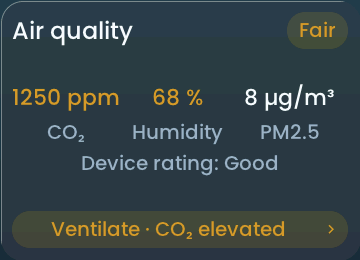
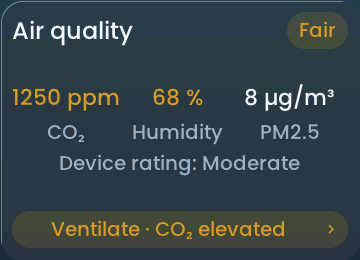
feat(test-pages): render and audit tile popups; rewrite v0.9.2-rc1 notes and Air quality guide
- test_pages.sh taps the tile of every case marked "popup", renders the
  dialog in all styles and languages under Popups, and fails when the tap
  opens nothing or the popup audit rejects it. The simulator reports
  whether the tap opened a dialog.
- The option picker keeps its title on one line, so a long lock or select
  title no longer runs into the options.
- Release notes: v0.9.2-rc1 rewritten for end users; the 800-line ceiling
  for release-notes.md is lifted.
- Air quality guide: three short paragraphs and a table that explains how
  Good, Fair and Poor are determined; the example no longer pairs Fair
  with a Good device rating.

Changed region(s): [[0.1528, 0.5846, 0.8556, 0.6769]]

diff --git a/tools/test_layouts.py b/tools/test_layouts.py
@@ -123,6 +123,9 @@ def all_suites():
     suites["zustaende"] = {"title": "Zustände", "cases": state_cases(suites)}
     suites["grenzen"] = {"title": "Grenzen", "cases": limits_cases(suites)}
     suites["maximal"] = {"title": "Maximal", "cases": maximum_cases(suites)}
+    for suite in ("zustaende", "grenzen", "maximal"):
+        for case in suites[suite]["cases"]:
+            case.pop("popup", None)  # a derived case repeats a catalogue case: its dialog is rendered once, there
     return suites
 
 
@@ -215,6 +218,7 @@ def stable_tag(suite_id, case):
 
 EXPECT = {}  # widget id -> texts its case expects to be visible (the case's "expect")
 SIM_STATES = {}  # widget id -> binding field/state overrides, applied to independent simulator-only entities
+POPUPS = set()  # widget ids whose case has "popup": a tap opens a dialog, rendered and audited as its own image
 SIM_FIELDS = {}  # widget id -> simulator-only fields (the case's "sim", e.g. to-do "items"); never in a panel layout
 PLACEHOLDER = re.compile(r"lädt\s*(…|\.\.\.)|loading|nicht verfügbar|unavailable|unbekannt|unknown", re.I)
 
@@ -266,6 +270,8 @@ def build_page(suite_id, title, number, placed, entities):
         WIDGET_TAGS[f"{page_id}_{index}"] = stable_tag(suite_id, case)
         EXPECT[f"{page_id}_{index}"] = case.get("expect", [])
         SIM_STATES[f"{page_id}_{index}"] = case.get("sim_state", {})
+        if case.get("popup"):
+            POPUPS.add(f"{page_id}_{index}")
         if "sim" in case:
             SIM_FIELDS[f"{page_id}_{index}"] = case["sim"]
     return {"id": page_id, "title": f"{title} {number}", "widgets": widgets}
@@ -362,7 +368,25 @@ def render_board(board, styles, steps, languages, out, suite=None, theme="dark_v
                         *dump], env=env, check=True, capture_output=True)
         Image.open(png).convert("RGB").save(png, optimize=True)
 
-    jobs = []
+    def popup_shot(job):
+        """One tap on the widget, as a finger would: the dialog must open and pass the simulator's popup audit."""
+        stem, page, widget_id, style, step, language = job
+        folder = out / f"{style}-{step}-{language}"
+        popup_fixture = out / f"{widget_id}.popup.fixture.json"
+        png = folder / f"popup-{widget_id}.png"
+        result = subprocess.run([str(binary), "--fixture", str(popup_fixture), "--page", page["id"], "--style", style, "--theme", theme,
+                                 "--language", language, "--text-step", str(step), "--exit-after-ms", "600", "--screenshot", str(png)],
+                                env=env, capture_output=True, text=True)
+        where = f"{WIDGET_TAGS.get(widget_id, widget_id)} ({style}, {language})"
+        if result.returncode:
+            detail = (result.stderr.strip() or result.stdout.strip()).splitlines()
+            return step, stem, f"Popup {where}: simulator exited {result.returncode}: {detail[-1] if detail else 'no diagnostic output'}"
+        if f"tap_widget {widget_id} popup=1" not in result.stdout:
+            return step, stem, f"Popup {where}: the tap opened no dialog"
+        Image.open(png).convert("RGB").save(png, optimize=True)
+        return step, stem, None
+
+    jobs, popup_jobs = [], []
     for stem, layout in layouts.items():
         fixture_path = out / f"{stem}.fixture.json"
         pages = [dict(page, widgets=[dict(widget, **SIM_FIELDS.get(widget["id"], {})) for widget in page["widgets"]])
@@ -370,14 +394,21 @@ def render_board(board, styles, steps, languages, out, suite=None, theme="dark_v
         pages, fixture_states = state_fixture(pages, states, SIM_STATES)
         fixture = dict(layout, pages=pages, states=fixture_states, ha_online=True, **extra)
         fixture_path.write_text(json.dumps(fixture, ensure_ascii=False), encoding="utf-8")
+        for page in pages:
+            for widget in page["widgets"]:
+                if widget["id"] in POPUPS:
+                    (out / f"{widget['id']}.popup.fixture.json").write_text(json.dumps(dict(fixture, tap_widget=widget["id"]), ensure_ascii=False), encoding="utf-8")
         for style in styles:
             for step in steps:
                 for language in languages:
                     (out / f"{style}-{step}-{language}").mkdir(exist_ok=True)
                     (out / f"dump-{step}").mkdir(exist_ok=True)
                     jobs += [(fixture_path, page, style, step, language) for page in layout["pages"]]
+                    popup_jobs += [(stem, page, widget["id"], style, step, language)
+                                   for page in layout["pages"] for widget in page["widgets"] if widget["id"] in POPUPS]
     with ThreadPoolExecutor(max_workers=os.cpu_count() or 4) as pool:
         list(pool.map(shot, jobs))
+        popup_problems = [found for found in pool.map(popup_shot, popup_jobs) if found[2]]
 
     def check(job):
         stem, step = job
@@ -395,6 +426,8 @@ def render_board(board, styles, steps, languages, out, suite=None, theme="dark_v
             dumps = {page["id"]: [json.loads(line) for line in (out / f"dump-{step}" / f"{page['id']}.jsonl").read_text().splitlines() if line]
                      for page in layouts[stem]["pages"] if page["widgets"]}
             problems[step][stem] = found + [f"Inhalt: {problem}" for problem in content_problems(layouts[stem], dumps, step == 0)]
+    for step, stem, found in popup_problems:
+        problems[step][stem].append(found)
     for step in steps:
         problems[step]["Demo-Daten"] = [f"no demo state for {entity}" for entity in gaps]
     return layouts, problems
@@ -571,6 +604,17 @@ def view(boards, styles, steps, languages, out, open_browser, theme="dark_v2"):
                         f'loading="lazy"><div class="overlay"></div></div><figcaption>{html.escape(page_label(page))}</figcaption></figure>')
             figures = "".join(figure(page) for page in layout["pages"])
             body.append(f'<section id="{board}-{stem}"><h2>{html.escape(suite_label(stem))}</h2><div class="pages">{figures}</div></section>')
+        opened = [(stem, page, widget) for stem, layout in layouts.items() for page in layout["pages"] for widget in page["widgets"] if widget["id"] in POPUPS]
+        if opened:
+            width_px, height_px, content_h = IMAGE_GEOMETRY[board]
+            cards = "".join(
+                f'<figure data-geometry="{width_px},{height_px},{(height_px - content_h) // 2},{width_px},{content_h}" data-widgets="[]">'
+                f'<div class="stage" style="aspect-ratio:{width_px}/{height_px}"><img data-board="{board}" data-page="popup-{widget["id"]}" '
+                f'alt="{html.escape(WIDGET_TAGS.get(widget["id"], widget["type"]))}" loading="lazy"><div class="overlay"></div></div>'
+                f'<figcaption>{html.escape(WIDGET_TAGS.get(widget["id"], widget["type"]))} · {html.escape(page_label(page))}</figcaption></figure>'
+                for _, page, widget in opened)
+            body.append(f'<section id="{board}-popups"><h2>Popups (Tipp auf die Kachel)</h2><div class="pages">{cards}</div></section>')
+            links += f' <a href="#{board}-popups">Popups</a>'
         width = "420px" if board == "panel4" else "560px"
         sections.append(f'<div class="board" data-board="{board}" style="--w:{width}"><nav>{links}</nav><main>{"".join(findings)}{"".join(body)}</main></div>')
         print(f"{board}: {sum(len(l['pages']) for l in layouts.values())} pages, "

diff --git a/tools/widget_docs_content.py b/tools/widget_docs_content.py
@@ -29,34 +29,17 @@ WIDGETS = {
                   'optional roles stay independent; outdoor comparison can be disabled without losing '
                   'its bindings'),
                  ('Rating',
-                  'fixed, not adjustable: humidity 40 to 60 % and CO₂ below 1000 ppm are green, PM2.5 below '
-                  '15 µg/m³ is green; the worst measured value sets the status')],
+                  'fixed, not adjustable; see [How the status is determined](#how-the-status-is-determined)')],
      'panel': ['A neutral card like the Room widget: the name on top, the readings (up to three, four on wide '
-               'tiles) as value over label in the middle, and chips at the bottom: the BETTA status '
-               '(Good, Fair, Poor) and, only when there is something to do, the short advice. Colour appears only in the chips and in the readings '
-               'that are rated amber or red. A tap on a value opens its history graph; a tap on the status, the advice or a gap opens the details.',
-                              'The worst usable indoor band controls green/amber/red. A configured humidity, CO₂ or '
-               'PM2.5 reading that is missing or unsupported adds a partial-data marker; if the '
-               'remaining bands are green, the status is neutral.',
-               'Temperature is context. VOC is displayed but not evaluated; Awair scores and IKEA '
-               'ratings never drive BETTA colour or advice.',
-               'The details show the status and every advice first, then each bound reading with its level; a tap on a row opens its history graph. '
-               'Outdoor absolute humidity and moisture conflicts appear below. Window state does not prove effective ventilation.',
-               'Unbound pollutants are outside the evaluation. No '
-               'outdoor PM input, automatic actions or countdown.',
-               'Display bands: humidity green 40–60 %, amber 30–<40 or >60–70 %, red below 30 '
-               'or above 70 %; CO₂ green below 1000 ppm, amber 1000–<2000, red from 2000 ppm; PM2.5 '
-               'green below 15 µg/m³, amber 15–<35, red from 35 µg/m³.',
-               'CO₂ follows the [UBA traffic-light '
-               'reference](https://www.umweltbundesamt.de/richtig-lueften-in-schulen) with explicit '
-               'BETTA boundaries. Humidity and PM bands are configurable product display choices, not '
-               'health limits. The [WHO PM2.5 '
-               'reference](https://cdn.who.int/media/docs/default-source/who-compendium-on-health-and-environment/who_compendium_chapter2.pdf) '
-               'of 15 µg/m³ is a 24-hour average; this widget does not calculate that average.',
-               'Band exits use 2 percentage points RH, 50 ppm CO₂ and 3 µg/m³ PM2.5 of hysteresis. New '
-               'warnings appear immediately; improving advice settles for 60 seconds. Outdoor drying '
-               'starts at an indoor-minus-outdoor difference of 1 g/m³; this is a configurable benefit '
-               'margin, not an airflow prediction.']},
+               'tiles) as value over label, and chips at the bottom with the status (Good, Fair, Poor) and, only '
+               'when there is something to do, a short advice. Colour appears only in the chips and in readings '
+               'rated amber or red.',
+               'A tap on a value opens its history graph; a tap on a chip or a gap opens the details: status and '
+               'advice first, then every bound reading with its level (a tap on a row opens its graph), the outdoor '
+               'absolute-humidity comparison and the window state.',
+               'Temperature is context only. VOC, Awair scores and IKEA ratings are displayed but never change the '
+               'status. Unbound pollutants are not evaluated, and the window state does not prove sufficient '
+               'ventilation.']},
     "alarm_tile": {
         "summary": "Shows the **state** of an `alarm_control_panel.*` entity and arms or disarms it, asking for a code when the entity needs one.",
         "entities": [("Alarm panel", "`alarm_control_panel.*`", True)],

diff --git a/tools/generate_widget_docs.py b/tools/generate_widget_docs.py
@@ -164,6 +164,24 @@ def panel_details(kind):
     lines = []
     if kind in ("sensor", "binary_tile", "contact_tile", "lock_tile"):
         lines += history_popup(kind)
+    if kind == "air_quality_tile":
+        lines += ["### How the status is determined", "",
+                  "Humidity, CO₂ and PM2.5 are each rated green, amber or red against fixed bands. The worst of the bound "
+                  "readings sets the status: **Good** is green, **Fair** amber, **Poor** red. A reading that is bound but missing "
+                  "adds a partial-data marker, and when everything else is green the status then stays neutral (**Not evaluated**) "
+                  "instead of Good.", "",
+                  "| Reading | Green (Good) | Amber (Fair) | Red (Poor) |", "| --- | --- | --- | --- |",
+                  "| Humidity | 40 to 60 % | 30 to below 40 % or above 60 to 70 % | below 30 % or above 70 % |",
+                  "| CO₂ | below 1000 ppm | 1000 to below 2000 ppm | 2000 ppm and above |",
+                  "| PM2.5 | below 15 µg/m³ | 15 to below 35 µg/m³ | 35 µg/m³ and above |", "",
+                  "The bands are fixed. CO₂ follows the [UBA traffic-light reference](https://www.umweltbundesamt.de/richtig-lueften-in-schulen) "
+                  "with explicit BETTA boundaries; the humidity and PM2.5 bands are product display choices, not health limits. The "
+                  "[WHO PM2.5 reference](https://cdn.who.int/media/docs/default-source/who-compendium-on-health-and-environment/who_compendium_chapter2.pdf) "
+                  "of 15 µg/m³ is a 24-hour average, which this widget does not calculate.", "",
+                  "To keep the status from flickering, a reading must move 2 percentage points of humidity, 50 ppm CO₂ or 3 µg/m³ "
+                  "PM2.5 back across a boundary before the band improves. A new warning appears immediately; an improving advice "
+                  "settles for 60 seconds. With an outdoor pair, drying advice starts when the indoor absolute humidity is at least "
+                  "1 g/m³ above the outdoor one; that is a benefit margin, not a prediction of the airflow.", ""]
     if kind == "select_tile":
         lines += ["### Option picker", "",
                   "The current option is marked. Tap another option to request it, or close the popup to leave it unchanged. The tile "

diff --git a/tools/check_source_sizes.py b/tools/check_source_sizes.py
@@ -41,7 +41,7 @@ def check_sources() -> int:
         if lines > largest[0]:
             largest = (lines, name)
         ceiling = LEGACY_CEILINGS.get(name, MAX_LINES)
-        if lines > ceiling:
+        if ceiling is not None and lines > ceiling:
             oversized.append((lines, ceiling, name))
         elif lines > WARN_LINES:
             warnings.append((lines, name))
@@ -59,7 +59,7 @@ DOC_WARN_LINES = 250
 FAIL_LINES = 300
 # Long on purpose; the ceiling only moves up after a deliberate decision.
 DOC_CEILINGS = {
-    "release-notes.md": 800,           # the fork's changes, grouped by topic
+    "release-notes.md": None,          # the fork's changes, grouped by topic; grows with every release
     "release-notes-upstream.md": 340,  # the original project's notes, kept unchanged
 }
 EXEMPT_DIRS = {"widgets", "img", "javascripts", "stylesheets"}
@@ -79,7 +79,7 @@ def check_docs():
     for rel, lines in pages():
         count += 1
         ceiling = DOC_CEILINGS.get(rel, FAIL_LINES)
-        if lines > ceiling:
+        if ceiling is not None and lines > ceiling:
             print(f"FAIL docs/{rel}: {lines} lines (ceiling {ceiling}); split it into sub-pages")
             failed = True
         elif lines > DOC_WARN_LINES and rel not in DOC_CEILINGS:

diff --git a/tests/simulator/simulator.c b/tests/simulator/simulator.c
@@ -1349,6 +1349,8 @@ int main(int argc, char **argv)
     for (int i = 0; tap_id[0] != '\0' && i < created; i++) {
         if (strcmp(widgets[i].def.id, tap_id) == 0) lv_obj_send_event(widgets[i].instance.obj, LV_EVENT_CLICKED, NULL);
     }
+    /* The test pages need to know whether the tap opened a dialog; the card goes onto the top layer. */
+    if (tap_id[0] != '\0') printf("tap_widget %s popup=%d\n", tap_id, lv_obj_get_child_count(lv_layer_top()) > 0);
     /* "open_popup": "wifi" | "ha" | "mqtt" opens the top bar's connectivity popup (data comes from pages_stubs.c). */
     const char *popup = json_string(root, "open_popup");
     if (strcmp(popup, "wifi") == 0) ui_conn_popup_show_wifi();

diff --git a/main/ui/ui_option_picker.c b/main/ui/ui_option_picker.c
@@ -121,6 +121,7 @@ lv_obj_t *ui_option_picker_open(const ui_option_picker_cfg_t *cfg)
     lv_obj_set_style_text_color(title, lv_color_hex(APP_UI_COLOR_TEXT_PRIMARY), LV_PART_MAIN);
     lv_label_set_long_mode(title, LV_LABEL_LONG_DOT);
     lv_obj_set_width(title, card_w - 2 * card_pad - 64);
+    lv_obj_set_height(title, lv_font_get_line_height(ui_font_role(UI_TEXT_VALUE))); /* one line: a longer title ends in dots instead of running into the options */
     lv_obj_align(title, LV_ALIGN_TOP_LEFT, 0, 4);
 
     lv_obj_t *close = ui_popup_close_button(card, lv_color_hex(APP_UI_COLOR_NAV_BTN_BG_IDLE), picker_close_cb, picker);

diff --git a/tests/tools/test_simulator_state_cases.py b/tests/tools/test_simulator_state_cases.py
@@ -382,8 +382,8 @@ class SizeCheckerTest(unittest.TestCase):
                 (docs / "page.md").write_text("x\n" * 301)
                 self.assertEqual(module.check_docs(), 1)
                 (docs / "page.md").unlink()
-                (docs / "release-notes.md").write_text("x\n" * 801)
-                self.assertEqual(module.check_docs(), 1)
+                (docs / "release-notes.md").write_text("x\n" * 5000)
+                self.assertEqual(module.check_docs(), 0)
 
 
 if __name__ == "__main__":

diff --git a/tools/widget_cases.py b/tools/widget_cases.py
@@ -37,7 +37,7 @@ def expand(case):
     for key, value in case.items():
         if key in MACROS and value is True:
             fields.update({field: "{" + role + "}" for field, role in MACROS[key].items()})
-        elif key not in ("w", "h", "expect", "sim", "sim_state", "gallery", "bindings"):
+        elif key not in ("w", "h", "expect", "sim", "sim_state", "gallery", "bindings", "popup"):
             fields[key] = value
     return fields
 

diff --git a/docs/widgets/air_quality_tile.md b/docs/widgets/air_quality_tile.md
@@ -33,18 +33,27 @@ Bind each role explicitly using the reported device class and unit; the tile sho
 | --- | --- |
 | Icon before the name | a small air-quality symbol in front of the name, off by default; shown only with the name |
 | Sources | optional roles stay independent; outdoor comparison can be disabled without losing its bindings |
-| Rating | fixed, not adjustable: humidity 40 to 60 % and CO₂ below 1000 ppm are green, PM2.5 below 15 µg/m³ is green; the worst measured value sets the status |
+| Rating | fixed, not adjustable; see [How the status is determined](#how-the-status-is-determined) |
 
 ## On the panel
 
-- A neutral card like the Room widget: the name on top, the readings (up to three, four on wide tiles) as value over label in the middle, and chips at the bottom: the BETTA status (Good, Fair, Poor) and, only when there is something to do, the short advice. Colour appears only in the chips and in the readings that are rated amber or red. A tap on a value opens its history graph; a tap on the status, the advice or a gap opens the details.
-- The worst usable indoor band controls green/amber/red. A configured humidity, CO₂ or PM2.5 reading that is missing or unsupported adds a partial-data marker; if the remaining bands are green, the status is neutral.
-- Temperature is context. VOC is displayed but not evaluated; Awair scores and IKEA ratings never drive BETTA colour or advice.
-- The details show the status and every advice first, then each bound reading with its level; a tap on a row opens its history graph. Outdoor absolute humidity and moisture conflicts appear below. Window state does not prove effective ventilation.
-- Unbound pollutants are outside the evaluation. No outdoor PM input, automatic actions or countdown.
-- Display bands: humidity green 40–60 %, amber 30–<40 or >60–70 %, red below 30 or above 70 %; CO₂ green below 1000 ppm, amber 1000–<2000, red from 2000 ppm; PM2.5 green below 15 µg/m³, amber 15–<35, red from 35 µg/m³.
-- CO₂ follows the [UBA traffic-light reference](https://www.umweltbundesamt.de/richtig-lueften-in-schulen) with explicit BETTA boundaries. Humidity and PM bands are configurable product display choices, not health limits. The [WHO PM2.5 reference](https://cdn.who.int/media/docs/default-source/who-compendium-on-health-and-environment/who_compendium_chapter2.pdf) of 15 µg/m³ is a 24-hour average; this widget does not calculate that average.
-- Band exits use 2 percentage points RH, 50 ppm CO₂ and 3 µg/m³ PM2.5 of hysteresis. New warnings appear immediately; improving advice settles for 60 seconds. Outdoor drying starts at an indoor-minus-outdoor difference of 1 g/m³; this is a configurable benefit margin, not an airflow prediction.
+- A neutral card like the Room widget: the name on top, the readings (up to three, four on wide tiles) as value over label, and chips at the bottom with the status (Good, Fair, Poor) and, only when there is something to do, a short advice. Colour appears only in the chips and in readings rated amber or red.
+- A tap on a value opens its history graph; a tap on a chip or a gap opens the details: status and advice first, then every bound reading with its level (a tap on a row opens its graph), the outdoor absolute-humidity comparison and the window state.
+- Temperature is context only. VOC, Awair scores and IKEA ratings are displayed but never change the status. Unbound pollutants are not evaluated, and the window state does not prove sufficient ventilation.
+
+### How the status is determined
+
+Humidity, CO₂ and PM2.5 are each rated green, amber or red against fixed bands. The worst of the bound readings sets the status: **Good** is green, **Fair** amber, **Poor** red. A reading that is bound but missing adds a partial-data marker, and when everything else is green the status then stays neutral (**Not evaluated**) instead of Good.
+
+| Reading | Green (Good) | Amber (Fair) | Red (Poor) |
+| --- | --- | --- | --- |
+| Humidity | 40 to 60 % | 30 to below 40 % or above 60 to 70 % | below 30 % or above 70 % |
+| CO₂ | below 1000 ppm | 1000 to below 2000 ppm | 2000 ppm and above |
+| PM2.5 | below 15 µg/m³ | 15 to below 35 µg/m³ | 35 µg/m³ and above |
+
+The bands are fixed. CO₂ follows the [UBA traffic-light reference](https://www.umweltbundesamt.de/richtig-lueften-in-schulen) with explicit BETTA boundaries; the humidity and PM2.5 bands are product display choices, not health limits. The [WHO PM2.5 reference](https://cdn.who.int/media/docs/default-source/who-compendium-on-health-and-environment/who_compendium_chapter2.pdf) of 15 µg/m³ is a 24-hour average, which this widget does not calculate.
+
+To keep the status from flickering, a reading must move 2 percentage points of humidity, 50 ppm CO₂ or 3 µg/m³ PM2.5 back across a boundary before the band improves. A new warning appears immediately; an improving advice settles for 60 seconds. With an outdoor pair, drying advice starts when the indoor absolute humidity is at least 1 g/m³ above the outdoor one; that is a benefit margin, not a prediction of the airflow.
 
 ## Size
 

diff --git a/docs/release-notes.md b/docs/release-notes.md
@@ -12,26 +12,15 @@ Changes since [v0.9.1](#v091).
 
 | Widget | Status | What is new or changed |
 | --- | --- | --- |
-| [Air quality](widgets/air_quality_tile.md) | <span class="release-status release-status--new">New</span> | One BETTA status (Good, Fair, Poor) and a short advice as chips, with humidity, CO₂, PM2.5 and temperature as readings on a neutral card like the Room widget, from basic sensors up to IKEA ALPSTUGA and Awair Element. Read-only details with outdoor absolute-humidity comparison and window state; VOC and device ratings are display-only. |
+| [Air quality](widgets/air_quality_tile.md) | <span class="release-status release-status--new">New</span> | One BETTA status (Good, Fair, Poor) from humidity, with optional temperature, CO₂ and PM2.5 as readings on a neutral card like the Room widget and one advice chip when something needs action. It works from basic sensors up to IKEA ALPSTUGA and Awair Element; VOC and device ratings are display-only. A tap on a reading opens its history graph; a tap elsewhere opens the details with the advice, every reading as a row that opens its graph, the outdoor absolute-humidity comparison and the window state. The page icon list gains matching **Humidity** and **Air quality** symbols. |
+| [Stocks & ETFs](widgets/stock_quotes.md) | <span class="release-status release-status--changed">Changed</span> | The Tiles view is part of Charts now, as the switch **Show as cards** with up to four columns. **Show the start price** adds the period's first price (**Start 126.84 €**) under the price. The 30-day period reads **1M**. A saved Tiles view opens as charts with cards. |
+| [Room card](widgets/room_tile.md) | <span class="release-status release-status--changed">Changed</span> | An optional icon before the name. |
+| [Fan](widgets/fan_tile.md) | <span class="release-status release-status--changed">Changed</span> | The rotor is drawn as three swept blades. |
 | [Parqet portfolio](widgets/parqet_portfolio.md) | <span class="release-status release-status--changed">Changed</span> | The interval buttons follow the panel language like the Stocks & ETFs period buttons (**1T** instead of **1D** in German). |
 
 ### Widgets: fitting and contrast
 
-- **Air quality** shows only the readings whose number and unit fit the width.
-- **Car** keeps the range, charge and charging power inside the rings; a small card has slimmer bands.
-- **Media player** shows the name above the text column, not on the artwork, in the wide layout.
-- **Printer** shares the button row by caption length, so Abort is not cut. **Energy timeline** keeps its time labels whole on the Tab5.
-- **Sensor** lists drop the heading when it would hide the first row. Temperatures read 21.8°C on the Sensor and Air quality tiles. **Cover** shows its progress in the accent colour in Matte.
-- **Air quality**: a tap on a value opens its history graph; the details list every reading as a row that opens its graph, without source IDs.
-
-### Panel and editor
-
-The page icon list gains **Humidity** and **Air quality**. Camera tiles visibly mark unavailable entities and hide old pictures until fresh frames return.
-
-The original JC reports lock, refresh, rotation and transfer times through `GET /api/version`,
-with a bounded list of slow operations and caller addresses. All panels expose cached chip temperature in the same API. Minute log summaries aid flicker
-diagnosis; these measurements do not establish or repair its cause. Periodic state recovery
-now skips applied changes and releases the display lock between entries.
+Layout fixes for cut-off or overlapping text and weak contrast on Air quality, Car, Media player, Printer, Vacuum, Fan, Energy timeline, Sensor and Cover. Temperatures on Sensor and Air quality read 21.8°C.
 
 ## v0.9.1
 

diff --git a/docs/development/testing.md b/docs/development/testing.md
@@ -133,6 +133,10 @@ host clock), so two runs give identical images. Per text step the run reports:
 - layout findings of `check_widget_layout.py`, in every style, German and English;
 - content findings in the first style: a widget with an existing entity that shows a loading or unavailable text, and
   texts its case lists in `expect` but does not draw (at text step 0; larger text may leave optional rows out);
+- popups: a case with `"popup": true` is tapped once, as a finger would, and its dialog is rendered in every style and
+  language under **Popups**; a tap that opens no dialog or a dialog that fails the popup audit is a finding. Only the
+  catalogue case carries the flag (the generated topics repeat it), and only popups a tap on the tile opens: dialogs behind
+  an inner button or a hit area (Printer status, Air quality value) stay with the regression suites;
 - demo entities without a state (`Demo-Daten`), and widget types or validated field values without a case.
 
 **Cases**
